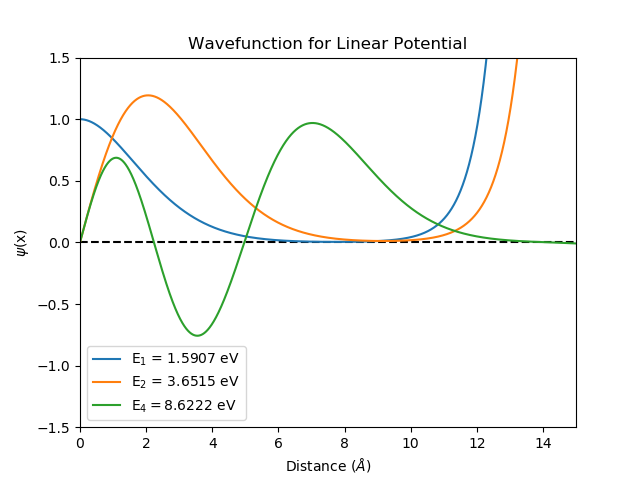
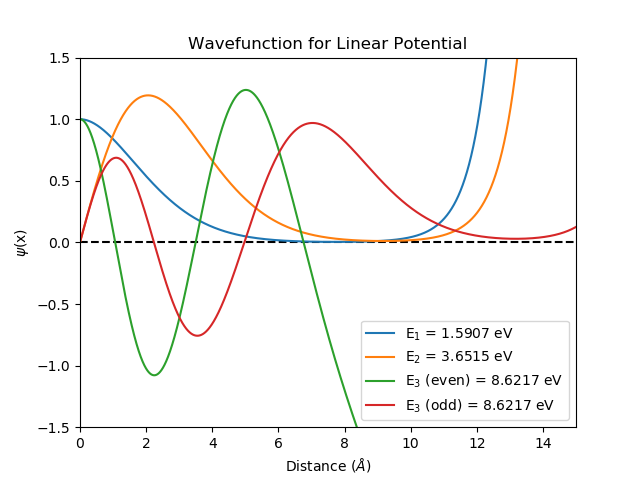
Display troubles with wavefunction for the 'correct' value of E3 = 8.6217 eV

diff --git a/PHYS 472 Computational Project.py b/PHYS 472 Computational Project.py
@@ -166,15 +166,15 @@ def FinalPlot(save=False):
     E1 = 1.5907
     E2 = 3.6515
     E3 = 7.5275
-    E4 = 8.6222
+    E4 = 8.6217
     x1,y1 = Solver(0.001,15.0,1.5907,True)
     x2,y2 = Solver(0.001,15.0,3.6515,False)
-    #x3,y3 = Solver(0.001,15.0,8.6217,False)
-    x4,y4 = Solver(0.001,15.0,8.6222,False)
+    x3,y3 = Solver(0.001,15.0,E4,True)
+    x4,y4 = Solver(0.001,15.0,E4,False)
     plt.plot(x1,y1,label=r'E$_1$ = {0} eV'.format(E1))
     plt.plot(x2,y2,label=r'E$_2$ = {0} eV'.format(E2))
-    #plt.plot(x3,y3,label=r'E$_3$ = {0} eV'.format(E4))
-    plt.plot(x4,y4,label=r'E$_4 = ${0} eV'.format(E4))
+    plt.plot(x3,y3,label=r'E$_3$ (even) = {0} eV'.format(E4))
+    plt.plot(x4,y4,label=r'E$_3$ (odd) = {0} eV'.format(E4))
     plt.legend()
     plt.xlim(0,15)
     plt.ylim(-1.5,1.5)
@@ -186,4 +186,4 @@ def FinalPlot(save=False):
         plt.savefig('C:/Users/Jimmy/Physics-Programs/Linear Half Potential Energies')
     plt.show()
 
-FinalPlot()
+FinalPlot(True)
